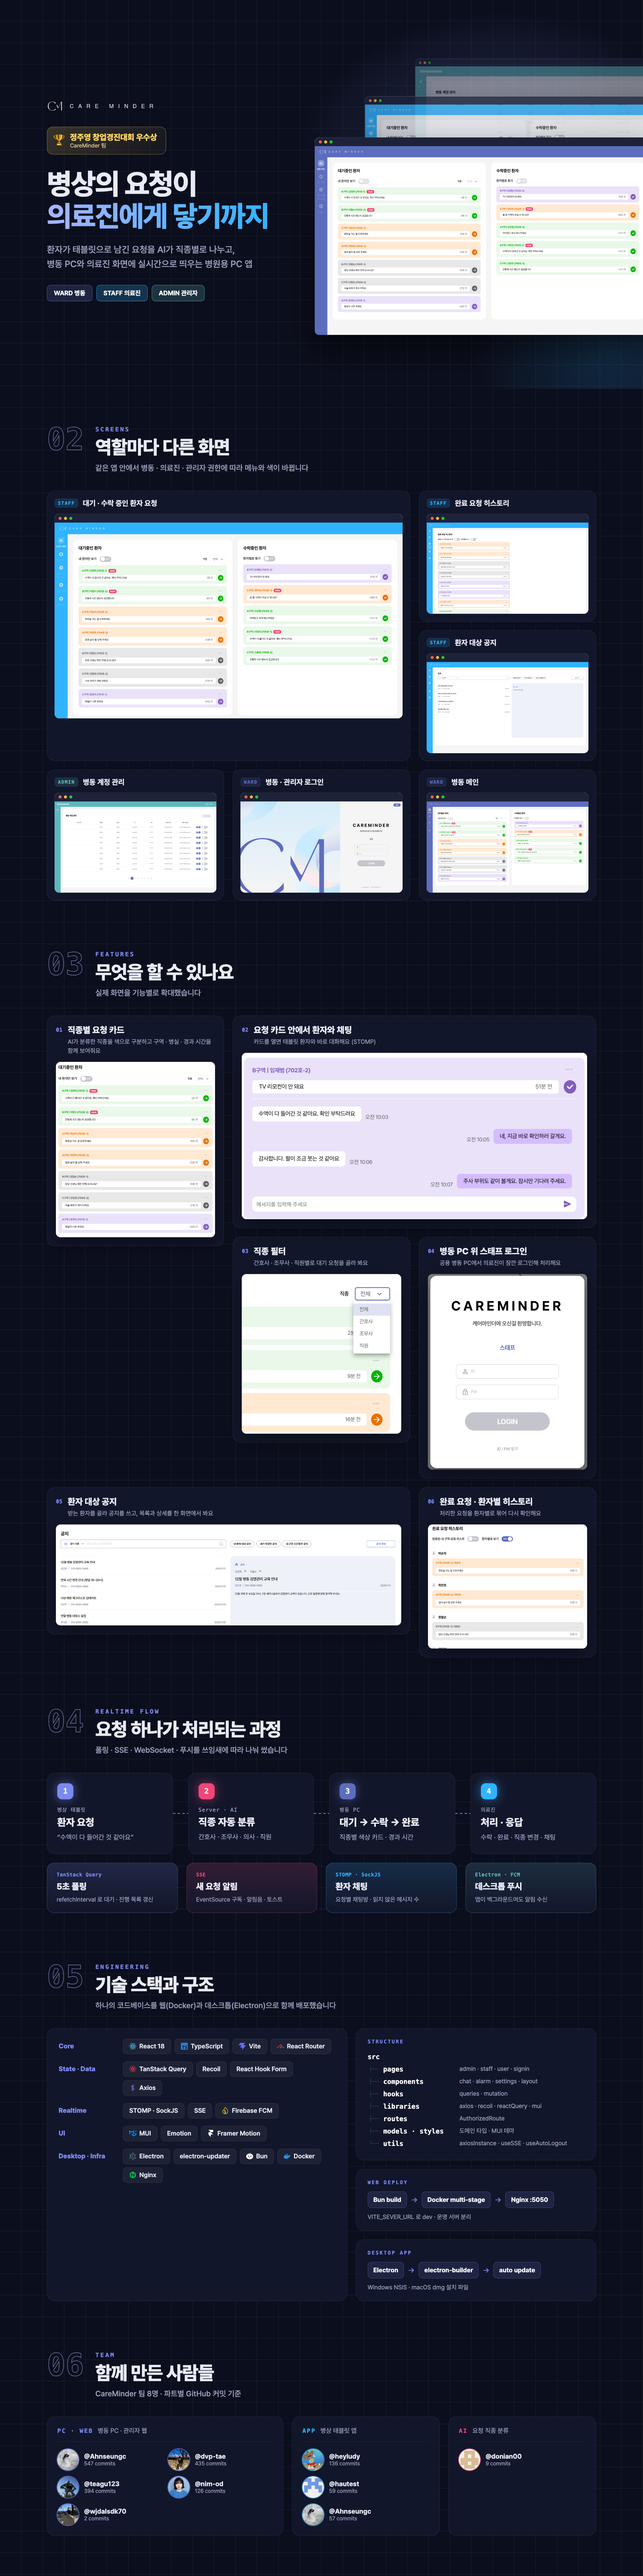
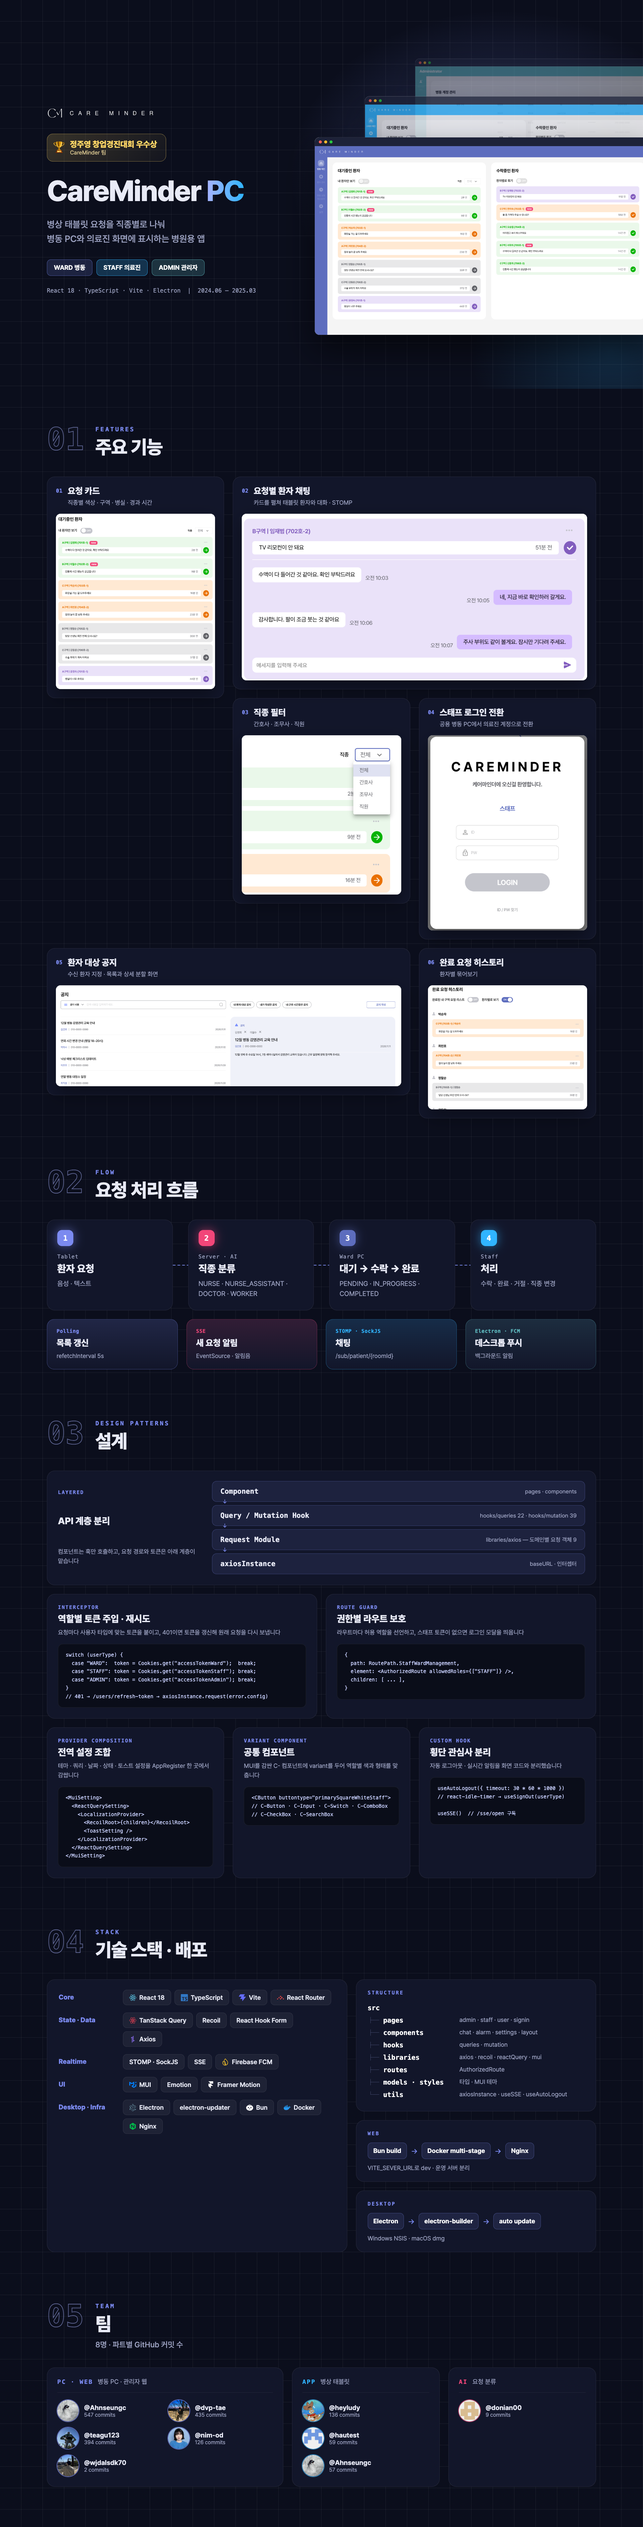
docs: README 이미지 구성 정리(역할별 화면 제거·설계 패턴 추가)·문구 간결화

diff --git a/README.md b/README.md
@@ -2,10 +2,10 @@
 
 <img src="public/CareFlow-icon.png" width="96" alt="CareMinder" />
 
-### CareMinder PC — 병동 환자 요청 실시간 관리
+### CareMinder PC
 
-병상 태블릿에서 들어온 환자 요청을 **병동 PC와 의료진에게 직종별로 나눠 전달**하는 병원용 PC 애플리케이션입니다.<br/>
-병동 · 의료진 · 병원 관리자 권한별 화면을 하나의 React 앱으로 만들고, 웹과 Electron 데스크톱 앱으로 함께 배포했습니다.
+병상 태블릿 요청을 직종별로 나눠 병동 PC와 의료진 화면에 표시하는 병원용 앱<br/>
+웹 · Electron 데스크톱 동시 배포
 
 🏆 **정주영 창업경진대회 우수상**<br/>
 CareMinder-Basic 팀 프로젝트 · 2024.06 ~ 2025.03
@@ -23,4 +23,4 @@ CareMinder-Basic 팀 프로젝트 · 2024.06 ~ 2025.03
 
 </div>
 
-<img src="docs/images/readme-overview.png" alt="CareMinder PC 화면, 주요 기능, 기술 스택, 환자 요청 실시간 흐름, 폴더 구조, 웹과 데스크톱 배포, 함께 만든 사람들" />
+<img src="docs/images/readme-overview.png" alt="CareMinder PC 화면, 주요 기능, 요청 처리 흐름, 설계, 기술 스택, 팀" />
